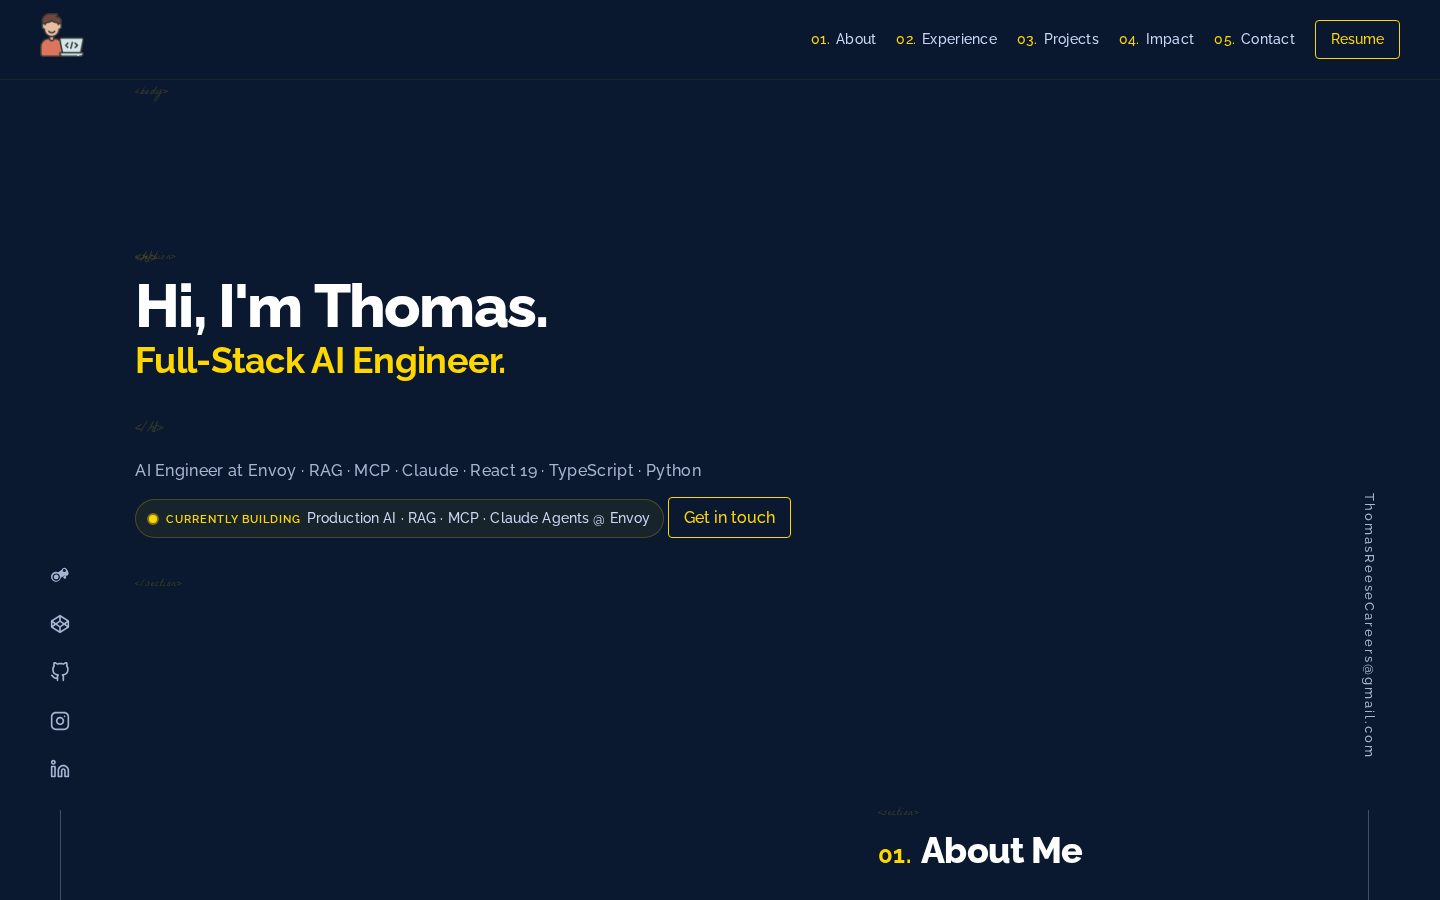
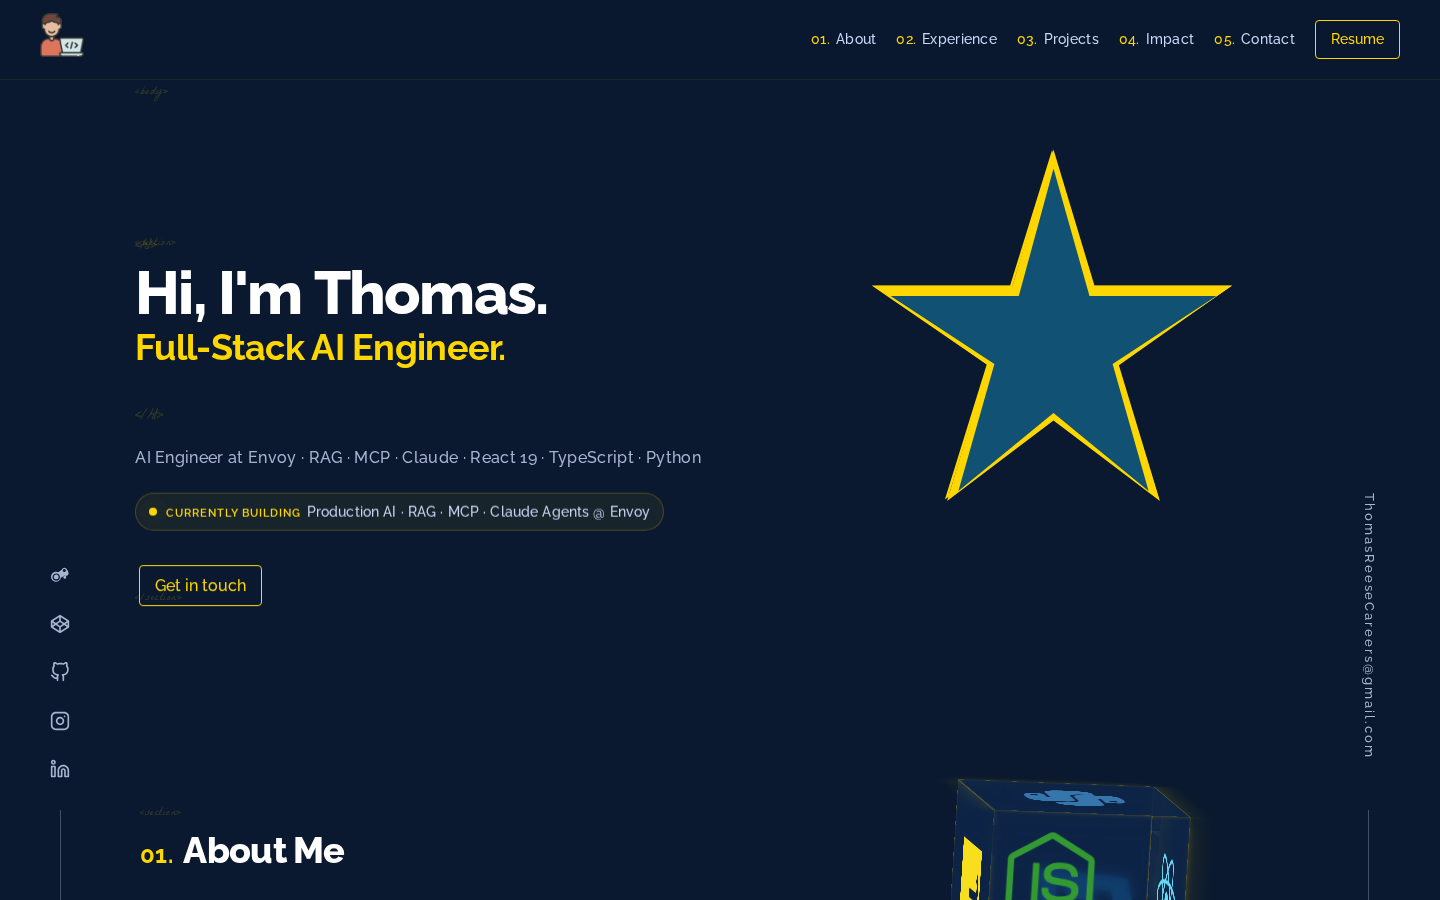
v17.2 — Complete the ACCA ↔ Code Nation swap (was only half-done in v17)
In v17 I swapped the Achievement card from ACCA → Code Nation Hackathon
(because the image was codenation.jpg), but I missed the reciprocal half:
the Community Involvement paragraph that already mentioned "Google's
Code Nation Hackathon" should have flipped to mention ACCA Chicago.

Now the swap is bidirectional and each piece of info lives where it
belongs:
  - Achievement card (with codenation.jpg image)
      → Google's Code Nation Hackathon mentoring narrative
  - Community Involvement paragraph (text-only)
      → Associated Colleges of the Chicago Area (ACCA) Coding
        Competition, 2nd place finish narrative

diff --git a/thomas-portfolio-project/src/components/CommunityAchievments/CommunityAndAchievements.tsx b/thomas-portfolio-project/src/components/CommunityAchievments/CommunityAndAchievements.tsx
@@ -95,19 +95,20 @@ const CommunityAndAchievements = () => {
 							discussion and discovery.
 						</p>
 						<p>
-							In addition, I took part in{' '}
+							In addition, I competed in the{' '}
 							<a
-								href='https://codenation.org/recap-code-nation-new-york-hackathon-2023/'
+								href='https://accachicago.org/'
 								target='_blank'
 								rel='noreferrer'
 								className='highlight-link'
 							>
-								Google's Code Nation Hackathon
+								Associated Colleges of the Chicago Area (ACCA) Coding
+								Competition
 							</a>
-							, where I guided students in local schools to use HTML, CSS, and
-							JavaScript to create websites showcasing their passions. This
-							experience was a fantastic opportunity to give back to the
-							community and inspire the next generation of developers.
+							, where my team secured second place by solving complex
+							algorithms under timed pressure — one of the first experiences
+							that pushed me toward production-grade problem-solving and
+							away from coursework-style coding.
 						</p>
 						<p>
 							Moreover, I have volunteered at the{' '}
